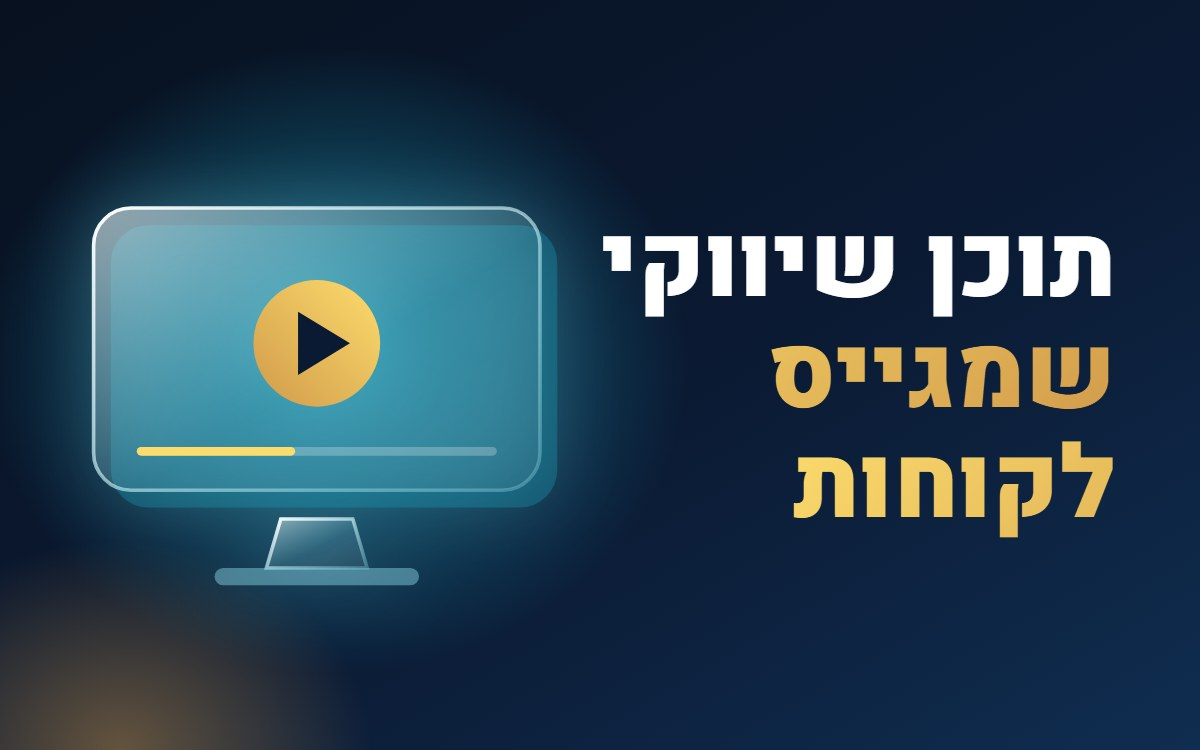
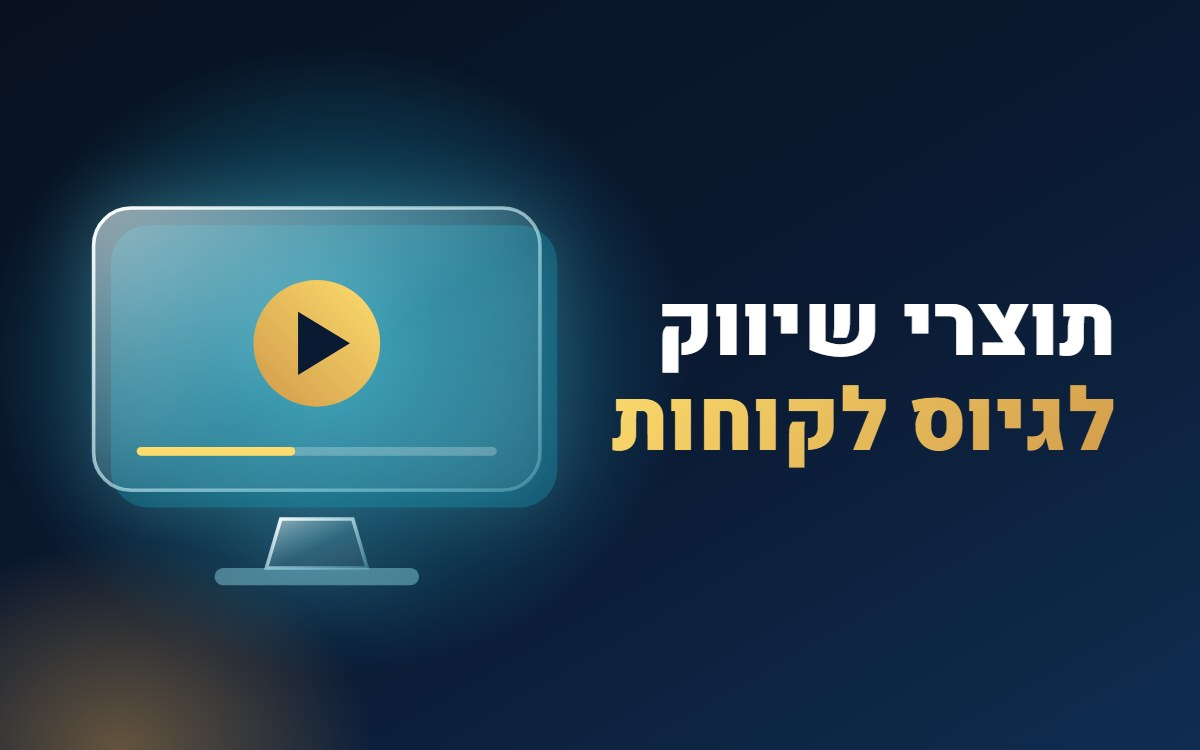
עמודי ההדרכות: שם אחד ותיאור אחד לכל הדרכה, הנוסח של נוגה
- הכריכה מציגה את אותו שם כמו הכותרת, והתיאור הוא אותו טקסט בכרטיס ובעמוד
- ההדרכה הכפולה "כתיבה שיווקית ובניית שיווק" נמחקה
- הקטלוג במחשב 4 בשורה (4+3), כתב קטן יותר לשם ארוך בכריכות ההדרכות
- כריכות ההדרכות יוצאו מחדש

Changed region(s): [[0.4933, 0.3067, 0.925, 0.736]]

diff --git a/src/data/trainings.ts b/src/data/trainings.ts
@@ -1,7 +1,7 @@
-// קטלוג ההדרכות של נוגה. תומלל מהקובץ "קטלוג הדרכות חדש מעוצב (1).pdf" (9 עמודים, 8 הדרכות).
-// הנוסח של נוגה. לכל הדרכה: כותרת, פתיח, נושאים, ומשך ופורמט.
+// קטלוג ההדרכות של נוגה. תומלל מהקובץ "קטלוג הדרכות חדש מעוצב (1).pdf" (9 עמודים, 8 הדרכות; אחת נמחקה כי הייתה כפולה).
+// לכל הדרכה שם אחד ותיאור אחד (נוגה, 2026-11-08), נושאים, ומשך ופורמט.
 // כדי להוסיף הדרכה: מוסיפים פריט לרשימה, והעמוד שלה נבנה אוטומטית ב-/trainings/<slug>/.
-// TODO: לפי העץ באתר אמורות להיות כ-12 הרצאות. בקטלוג יש 8. נוגה תשלים את השאר.
+// TODO: לפי העץ באתר אמורות להיות כ-12 הרצאות. כרגע יש 7. נוגה תשלים את השאר.
 // "למי מתאימה" (audience) נכתב מתוך הקטלוג (קטלוג הדרכות לעצמאים), טיוטה לאישור נוגה.
 
 import type { CoverMotif } from '../components/ContentCover.astro';
@@ -19,15 +19,14 @@ export interface Training {
   slug: string;
   title: string;
   category: TrainingCategory;
-  // נוגה (2026-11-08): לעבות. short = שלוש שורות משמעותיות ומרגשות לכרטיס בקטלוג. about, takeaways ו-audience לעמוד ההדרכה.
-  // ארבעתם נכתבו מתוך הקטלוג של נוגה (הפתיח, הנושאים ומשפטי המפתח), בלי גוף ראשון ובלי נקודתיים. טיוטה לאישור נוגה.
+  // short = התיאור היחיד של ההדרכה, בכרטיס בקטלוג ובפתיח של עמוד ההדרכה. הנוסח של נוגה (2026-11-08), תוקנו רק כתיב ופיסוק.
+  // about, takeaways ו-audience נכתבו מתוך הקטלוג של נוגה, בלי גוף ראשון ובלי נקודתיים. טיוטה לאישור נוגה.
   short: string;
   about?: string[]; // "על ההדרכה", שתי פסקאות בעמוד ההדרכה
   takeaways?: string[]; // "יוצאים מההדרכה עם"
   audience?: string; // "למי מתאימה"
-  coverTitle: string; // כותרת הכריכה (הצעה שלי). *מילה* = זהב, | = ירידת שורה
+  coverTitle: string; // אותו שם כמו title, רק עם עיצוב (נוגה, 2026-11-08: בלי שם קצר ושם ארוך). *מילה* = זהב, | = ירידת שורה
   coverMotif: CoverMotif;
-  lead: string[]; // פסקאות הפתיחה (מודגשות בקטלוג)
   topics: { title: string; text?: string }[];
   format: string; // משך ההדרכה ואפשרות הסדנה
   keyLines?: string[]; // משפטי מפתח מתוך ההדרכה עצמה (מהתמלול), מוצגים בעמוד ההדרכה
@@ -36,8 +35,9 @@ export interface Training {
 export const trainings: Training[] = [
   {
     slug: 'marketing-content-design',
-    category: 'marketing',
-    short: "מדריך, מצגת, פלייר או הצעת מחיר הם לא פעם המפגש הראשון של לקוח עם העסק מקרוב. בהדרכה לומדים לבנות תכנים שנראים מקצועיים, נקראים בקלות ומובילים את הלקוח לפעולה.",
+    // ההדרכה "כתיבה שיווקית ובניית שיווק" נמחקה (כפולה בשם אחר, נוגה 2026-11-08). זו נשארה, ועברה לנושא AI כי היא עובדת עם הצ'אט.
+    category: 'ai',
+    short: "מילים נכונות, פלייר מרשים ומצגת שמניעה לפעולה עושים את ההבדל. ביחד עם הצ'אט אנחנו מעצבים ומנסחים בשפה שלקוחות אוהבים. בונים חומרי שיווק שלא נראים כמו כולם, עם כללים ועקרונות של כתיבה ועיצוב שמתקנים את הטעויות של הצ'אט.",
     about: [
       "לקוחות שופטים עסק לפי מה שהם רואים. מסמך עמוס, צבעים שלא מתחברים או הצעת מחיר שקשה לקרוא משדרים חוסר מקצועיות, גם כשהשירות עצמו מצוין.",
       "ההדרכה מחברת בין עיצוב, מבנה וכתיבה. לומדים לבחור צבעים, גופנים ותמונות שתומכים במסר, לבנות מסמך שמוביל את העין לפי סדר החשיבות, ולכתוב טקסט שמדבר אל הקהל ומסתיים בהנעה ברורה לפעולה.",
@@ -49,12 +49,9 @@ export const trainings: Training[] = [
       "ביטחון לבנות לבד מדריכים, מצגות ופליירים",
     ],
     audience: "בעלי עסקים ועצמאים שמכינים בעצמם חומרים שיווקיים ורוצים שייראו מקצועיים ויביאו לקוחות.",
-    coverTitle: 'תוכן שיווקי|*שמגייס לקוחות*',
+    coverTitle: "תוצרי שיווק|*לגיוס לקוחות*",
     coverMotif: 'screen',
-    title: 'עיצוב ובניית תוכן שיווקי ועסקי ממוקד לגיוס לקוחות',
-    lead: [
-      'כל עסק חייב תכנים שיווקיים מקצועיים ומניעים: מדריכים, מצגות, פליירים, תמונות מעוצבות, קאבר לרשתות, הצעות מחיר, הסכמים ועוד...',
-    ],
+    title: "תוצרי שיווק לגיוס לקוחות",
     topics: [
       { title: 'כללי עיצוב', text: 'צבעים, פונטים, איקונים, תמונות תומכות מסר ואינפוגרפיקה' },
       { title: 'בניית מסמך', text: 'סדר קריאה, היררכיית ופרופורציות מסרים ועיצובים' },
@@ -66,7 +63,7 @@ export const trainings: Training[] = [
   {
     slug: 'whatsapp-business-community',
     category: 'marketing',
-    short: "קהילה בוואטסאפ היא אחד המקומות האישיים ביותר לפגוש בהם לקוחות. איך בוחרים קהל ושם שממגנטים, מה כותבים כדי שיגיבו, ואיך חברי קבוצה הופכים ללקוחות שחוזרים וממליצים.",
+    short: "לבנות קהילת וואטסאפ ולהצליח להוביל אותה לאורך זמן זה אחד הדברים המתגמלים ביותר בשיווק, אפילו שלרוב האנשים יש עשרות קבוצות בארכיון. איך בוחרים נושא מיוחד, צורך מגבש, שם קהילה ממגנט, ומה בכלל תוכנית השיווק. כל הכלים והכללים בהדרכה ממוקדת.",
     about: [
       "קבוצת וואטסאפ עסקית היא מרחב אישי ואותנטי, שבו הלקוחות פוגשים את העסק מקרוב, מכירים את האנשים שמאחוריו ובונים איתו אמון לאורך זמן.",
       "ההדרכה עוברת על כל השלבים, מהגדרת המטרות והתועלות של הקהילה, דרך בחירת קהל יעד ושם שממגנטים, ועד תוכן שמעורר מעורבות ושיווק הקבוצה ברשתות. ולצד הכלים, המנהיגות והאותנטיות שגורמות לאנשים להישאר, להשתתף ולהמליץ.",
@@ -78,12 +75,9 @@ export const trainings: Training[] = [
       "דרכים לצרף חברים חדשים מהרשתות",
     ],
     audience: "בעלי עסקים ועצמאים שרוצים לבנות קהל נאמן סביב העסק, או שכבר מנהלים קבוצה ומחפשים בה יותר חיים.",
-    coverTitle: 'קהילה עסקית|*בוואטסאפ*',
+    coverTitle: "הובלת קהילה עסקית|*בוואטסאפ*",
     coverMotif: 'chat',
-    title: 'הקמה וניהול קהילה עסקית בוואטסאפ כמנוע לגיוס לקוחות',
-    lead: [
-      'מרחב עסקי שיווקי בקבוצת וואטסאפ, המאפשר חיבור אישי ואותנטי, מחזק נוכחות ומודעות למותג, ובונה קהל נאמן שחוזר וממליץ.',
-    ],
+    title: "הובלת קהילה עסקית בוואטסאפ",
     topics: [
       { title: 'מטרות ותועלות לקהילה עסקית מצליחה' },
       { title: 'פיצוח חכם לקהל יעד ושם קבוצה ממגנט' },
@@ -96,7 +90,7 @@ export const trainings: Training[] = [
   {
     slug: 'people-and-ai-recommend-you',
     category: 'ai',
-    short: "המלצה מפה לאוזן היא הדבר הטוב ביותר שיכול לקרות לעסק, והיום גם הצ'אט ממליץ. איך הופכים את העסק לברור, זכיר וקל להמלצה, ואיזה תוכן ברשת גורם ל-AI לבחור דווקא בו.",
+    short: "המלצה מפה לאוזן היא הדבר הטוב ביותר שיכול לקרות לעסק. היום אנשים ממליצים, ומחר זה יהיה בעיקר הצ'אט. המלצות מפה לאוזן הן לכאורה דבר פסיבי, אבל כשמנהלים עסק שום דבר לא יכול להישאר פסיבי, ויש לא מעט פעולות שאפשר לעשות כדי לגרום לאנשים ולצ'אט להמליץ עליך.",
     about: [
       "הפניות מפה לאוזן הן הדבר הטוב ביותר שיכול לקרות לעסק, ואסור להשאיר אותן למזל. כדי שיספרו על העסק הלאה, צריך שיהיה ברור מה הוא עושה, למי, ומה הלקוח מרוויח.",
       "היום גם הבינה המלאכותית ממליצה. מי ששואל את הצ'אט על נותן שירות מקבל תשובה שמבוססת על מה שכתוב ברשת. ההדרכה מפצחת את שני הצדדים, את כללי השיווק שהופכים לקוחות ומכרים לממליצים נאמנים, ואת התוכן שצריך להיות ברשת כדי שה-AI ימליץ דווקא על העסק שלך.",
@@ -108,13 +102,9 @@ export const trainings: Training[] = [
       "רשימת תוכן שכדאי להוסיף לאתר ולרשתות",
     ],
     audience: "בעלי עסקים ועצמאים שרוצים יותר פניות מהמלצות, ולהופיע גם בתשובות של הצ'אט.",
-    coverTitle: 'אנשים ו-*AI*|ימליצו עליך',
+    coverTitle: "המלצות|מפה לאוזן|מאנשים ו-*AI*",
     coverMotif: 'ai',
-    title: 'איך לגרום לאנשים ו-AI להמליץ על העסק שלך',
-    lead: [
-      'הפניות מפה לאוזן זה הדבר הכי טוב לעסק, ואסור להשאיר אותו למזל.',
-      'ביחד אנחנו לוקחים אחריות על השיווק של העסק, ובהדרכה נפצח את הנוסחה: איך להפוך את העסק לברור, זכיר וקל להמלצה.',
-    ],
+    title: "המלצות מפה לאוזן מאנשים ו-AI",
     topics: [
       { title: 'מהם כללי השיווק שצריך ליישם כדי להפוך לקוחות ומכרים לממליצים נאמנים' },
       { title: 'איזה תוכן צריך ברשת כדי שהצ\'אט ימליץ על העסק שלנו ללקוחות מתעניינים' },
@@ -131,7 +121,7 @@ export const trainings: Training[] = [
   {
     slug: 'managing-the-chat',
     category: 'ai',
-    short: "פחות התכתבויות אינסופיות ותיקונים, יותר תוצרים שאפשר להשתמש בהם מיד. עקרונות וטכניקות לעבודה עם מודלי שפה, שמביאים מהצ'אט רעיונות ומסרים שיווקיים שבאמת עובדים.",
+    short: "פחות תיקונים וויכוחים עם מודלי הבינה המלאכותית, ויותר תוצרים מדויקים בדיוק כמו שאנחנו רוצים. בהדרכה נלמד מה תפקיד המשתמשים בניהול ההקשר של התוכן, ואילו הוראות מקלות על הצ'אט לתת תשובות טובות ולא להיתקע בלופ מעצבן שגוזל זמן רב.",
     about: [
       "רוב בעלי העסקים כבר עובדים עם הצ'אט, ורובם מכירים את התסכול. תשובות כלליות, ניסוחים שלא נשמעים כמו העסק, ועוד ועוד התכתבויות עד שמתקבל משהו שאפשר להשתמש בו.",
       "ההדרכה מסדרת את הבסיס, מושגי היסוד של מודלי שפה ועקרונות וטכניקות שמשפרים את איכות התוצרים כבר מהניסיון הראשון. ובנוסף, טיפים לכתיבה שיווקית עסקית, כדי שהרעיונות והמסרים שיוצאים מהצ'אט יתאימו לעסק ולקהל שלו.",
@@ -145,11 +135,7 @@ export const trainings: Training[] = [
     audience: "בעלי עסקים ועצמאים שמשתמשים בצ'אט או רוצים להתחיל, ומחפשים תוצאות טובות יותר בפחות זמן.",
     coverTitle: "לנהל|את *הצ'אט*",
     coverMotif: 'target',
-    title: 'לנהל את הצ\'אט',
-    lead: [
-      'כלים מעשיים לשימוש במודלי שפה לתוצאות מדויקות וטובות, כדי שלא כל שאלה קטנה תהפוך לעשרות התכתבויות.',
-      'בהדרכה נבין איך לחסוך זמן תיקונים והסברים, ונקבל מהצ\'אט רעיונות ומסרים שיווקיים שבאמת עובדים!',
-    ],
+    title: "לנהל את הצ'אט",
     topics: [
       { title: 'מושגי יסוד בסיסיים לעבודה במודלי שפה' },
       { title: 'עקרונות וטכניקות לשיפור איכות התוצרים' },
@@ -160,7 +146,8 @@ export const trainings: Training[] = [
   {
     slug: 'business-leadership',
     category: 'marketing',
-    short: "מנהיגות היא החלטה, ומי שהולך עם העדר הוא בטוח לא המנהיג. הדרכה על הקול הייחודי של העסק, על קבלת החלטות ועל יצירת דרך שיווקית משלך, בלי להתנצל על השונות.",
+    // נוגה ביקשה לשנות טיפה את הנוסח שלה כך שיזמין לשמוע את ההדרכה. הניסוח שלי, לאישור.
+    short: "מי שהולך עם העדר הוא בטוח לא המנהיג. כדי לסחוף לקוחות צריך אותנטיות כובשת ואמירה ברורה, והרגלים של קבלת החלטות ולקיחת אחריות שמובילים את הלקוחות לרכוש שוב ושוב. בהדרכה מגלים איך מובילים את השיווק בדרך שלך, כזו שלקוחות רוצים ללכת אחריה.",
     about: [
       "מנהיגות היא החלטה, וכל אחד יכול להוביל דרך, במיוחד עצמאים. בעולם שבו כולם משווקים באותה צורה, מי שמעז להביא את הקול שלו בולט, נזכר ונבחר.",
       "ההדרכה עוסקת בשלושה דברים שמבדילים עסק מוביל. חיבור ואותנטיות, להביא קול ייחודי בלי להתנצל על השונות. קבלת החלטות, כי חשוב יותר לעשות מאשר לדעת בדיוק מה ואיך. ובדרך משלך, להפסיק לחפש את הדרך השיווקית הנכונה האחת וליצור דרך שמתאימה לעסק.",
@@ -172,13 +159,9 @@ export const trainings: Training[] = [
       "כיוון שיווקי שמתאים לעסק",
     ],
     audience: "בעלי עסקים ועצמאים שרוצים לבלוט, להוביל ולשווק בדרך שמרגישה להם נכונה.",
-    coverTitle: 'לא ללכת|*עם העדר*',
+    coverTitle: "מנהיגות עסקית|*כבסיס לשיווק מנצח*",
     coverMotif: 'iceberg',
-    title: 'מנהיגות עסקית כבסיס לשיווק מנצח',
-    lead: [
-      'מנהיגות היא החלטה, וכל אחד יכול להיות מנהיג, בוס, מוביל דרך בדרכו, במיוחד עצמאיים!',
-      'כי מי שהולך עם העדר הוא בטוח לא המנהיג.',
-    ],
+    title: "מנהיגות עסקית כבסיס לשיווק מנצח",
     topics: [
       { title: 'חיבור ואותנטיות', text: 'להעז להביא קול ייחודי מבלי להתנצל על השונות' },
       { title: 'קבלת החלטות', text: 'הרבה יותר חשוב ממה ואיך לעשות זה לעשות!' },
@@ -189,7 +172,7 @@ export const trainings: Training[] = [
   {
     slug: 'networking',
     category: 'marketing',
-    short: "מפגש עסקי אחד יכול לפתוח דלת שחיכתה שנים. איך מתכננים השתתפות, מציגים את העסק בצורה שזוכרים, ושומרים על קשרים שממשיכים לייצר הזדמנויות לאורך זמן.",
+    short: "עסקים וקשרים עסקיים נוצרים כשיש חיבור בין אנשים. מפגש נטוורקינג אחד יכול לפתוח דלתות ולייצר הזדמנויות. איך ניגשים לנושא ומה לא עושים, ואיך מציגים את העסק בצורה שזוכרים. בהדרכה כללים חשובים ועקרונות מקדמים.",
     about: [
       "קשרים עסקיים טובים לא קורים במקרה. מאחורי כל מפגש שמוביל לשיתוף פעולה או ללקוח חדש יש תכנון, הצגה עצמית שזוכרים, ובעיקר המשך קשר.",
       "ההדרכה מלווה את כל הדרך, מהתכנון לפני המפגש, דרך חיבור אותנטי והצגה עצמית תועלתית, זכירה ומעניינת, ועד אומנות תחזוקת הקשרים לאורך זמן ובדיקה של מה שבאמת הביא תוצאות.",
@@ -201,12 +184,9 @@ export const trainings: Training[] = [
       "בדיקה של מה שבאמת עובד",
     ],
     audience: "בעלי עסקים ועצמאים שמגיעים לכנסים, לקבוצות ולמפגשים עסקיים ורוצים שכל מפגש יוביל להזדמנות.",
-    coverTitle: 'נטוורקינג|*שפותח דלתות*',
+    coverTitle: "נטוורקינג שמייצר|*הזדמנויות עסקיות*",
     coverMotif: 'growth',
-    title: 'נטוורקינג שמייצר הזדמנויות עסקיות',
-    lead: [
-      'היכולת ליצור קשרים משמעותיים, לגרום לאנשים לזכור אותך, לפתוח דלתות ולייצר הזדמנויות עסקיות הדדיות.',
-    ],
+    title: "נטוורקינג שמייצר הזדמנויות עסקיות",
     topics: [
       { title: 'תכנון השתתפות במפגש נטוורקינג מוצלח' },
       { title: 'חיבור אותנטי שמייצר הזדמנויות' },
@@ -219,7 +199,7 @@ export const trainings: Training[] = [
   {
     slug: 'decisions-in-motion',
     category: 'marketing',
-    short: "עסק שמתקדם מקבל החלטות גם כשהדרך עוד לא ברורה. הדרכה מנטלית ומעשית שמזהה מה מעכב, עוזרת לבחור מתוך מיליון אפשרויות, ומחזירה את הביטחון להתקדם בקצב.",
+    short: "עסק שמתקדם מקבל החלטות גם כשהדרך עוד לא ברורה. הדרכה מנטלית ומעשית שעוזרת לבחור מתוך מיליון אפשרויות, ומחזירה את הביטחון להתקדם בקצב שהעולם דורש.",
     about: [
       "פיתוח עסקי פירושו לעשות דברים שעוד לא נעשו. וכשהאפשרויות רבות והעתיד לא ודאי, קל להיתקע, לדחות ולחכות לרגע המושלם שלא מגיע.",
       "זו הדרכה מנטלית סופר מעשית. מזהים את הגורמים שמעכבים החלטות, לומדים לבחור מבין מיליון אפשרויות פיתוח, ומתרגלים התקדמות בביטחון גם כשהדרך עדיין לא ברורה, בקצב מהיר ומתוך חיבור פנימי.",
@@ -231,49 +211,14 @@ export const trainings: Training[] = [
       "צעד ראשון ברור להמשך",
     ],
     audience: "בעלי עסקים ועצמאים שעומדים מול החלטות פיתוח, קטנות או גדולות, ורוצים להתקדם בלי להיתקע.",
-    coverTitle: 'לרוץ|*על עננים*',
+    coverTitle: "קבלת החלטות|*עסקיות בקלות*",
     coverMotif: 'compass',
-    title: 'לרוץ על עננים: קבלת החלטות לפיתוח עסקי תוך כדי תנועה',
-    lead: [
-      'לעשות דברים שעוד לא עשינו, לקבל החלטות קטנות וגדולות ולהתקדם גם כשהדרך עדיין לא ברורה.',
-      'הדרכה מנטלית סופר מעשית לקבלת החלטות פיתוח עסקי בקצב מהיר ומתוך חיבור פנימי.',
-    ],
+    title: "קבלת החלטות עסקיות בקלות",
     topics: [
       { title: 'גורמים מעכבים בקבלת החלטות' },
       { title: 'איך לבחור מבין מליון אפשרויות פיתוח עסקי' },
       { title: 'לקדם את העסק בביטחון בעתיד חסר ודאות' },
     ],
     format: 'משך ההדרכה שעה. ניתן להפוך לסדנה יישומית לקבלת החלטות.',
-  },
-  {
-    // לשעבר "סדנאות Canva ייחודיות לנראות עסקית מקצועית". נוגה ביקשה לשנות ל"כתיבה שיווקית ובניית שיווק" (2026-11-07).
-    slug: 'marketing-writing',
-    title: 'כתיבה שיווקית ובניית שיווק',
-    category: 'ai', // עברה לראש הקטלוג, עם הדרכות ה-AI (נוגה, 2026-11-08)
-    short: "מילים נכונות, פלייר מרשים ומצגת שמחזיקה קהל הם ההבדל בין עוד הודעה לבין לקוח שמרים טלפון. סדנאות בהתאמה אישית, עם כלי AI, לכתיבה ולעיצוב שמניעים לפעולה.",
-    about: [
-      "הטקסט בפוסט, הפלייר בקבוצה והמצגת בפגישה הם לפעמים ההזדמנות היחידה לשכנע. כתיבה מדויקת ועיצוב נכון הופכים אותם מעוד הודעה למשהו שגורם ללקוח לפנות.",
-      "הסדנאות בנויות בהתאמה אישית, עם אפשרות לשלב כלי AI. עובדים על כתיבה שיווקית עסקית שממוקדת בקהל ומדגישה תועלות, על עקרונות עיצוב וקופירייטינג לפליירים מרשימים, ועל תכנון ועיצוב מצגות עסקיות מנצחות.",
-    ],
-    takeaways: [
-      "טקסטים שמדברים בשפה של הלקוח",
-      "פליירים שמושכים את העין ומניעים לפעולה",
-      "מצגות עם מבנה ברור וזורם",
-      "שימוש חכם בכלי AI בכתיבה",
-    ],
-    audience: "בעלי עסקים, עצמאים וצוותים שכותבים ומעצבים חומרים שיווקיים בעצמם.",
-    coverTitle: 'כתיבה|*שמניעה לפעולה*',
-    coverMotif: 'megaphone',
-    lead: [
-      'סדנאות בהתאמה אישית, עם אפשרות שילוב AI מתוכנות נוספות, לטובת שיפור הכתיבה השיווקית, עיצוב הפליירים ועריכת המצגות.',
-    ],
-    topics: [
-      // הנושא "יסודות קנבה" הוסר. הנושא הזה לקוח מההדרכה "עיצוב ובניית תוכן שיווקי" (הנוסח של נוגה).
-      { title: 'כתיבה שיווקית עסקית', text: 'מיקוד בקהל, הדגשת תועלות והנעה לפעולה' },
-      { title: 'בניית פליירים', text: 'עקרונות עיצוב וקופירייטינג לפליירים מרשימים ומניעים' },
-      { title: 'בניית מצגות', text: 'עיצוב, תכנון וקופירייטינג של מצגות עסקיות מנצחות' },
-    ],
-    // TODO: בקטלוג לא צוין משך. לברר עם נוגה.
-    format: 'סדנאות בהתאמה אישית.',
   },
 ];
